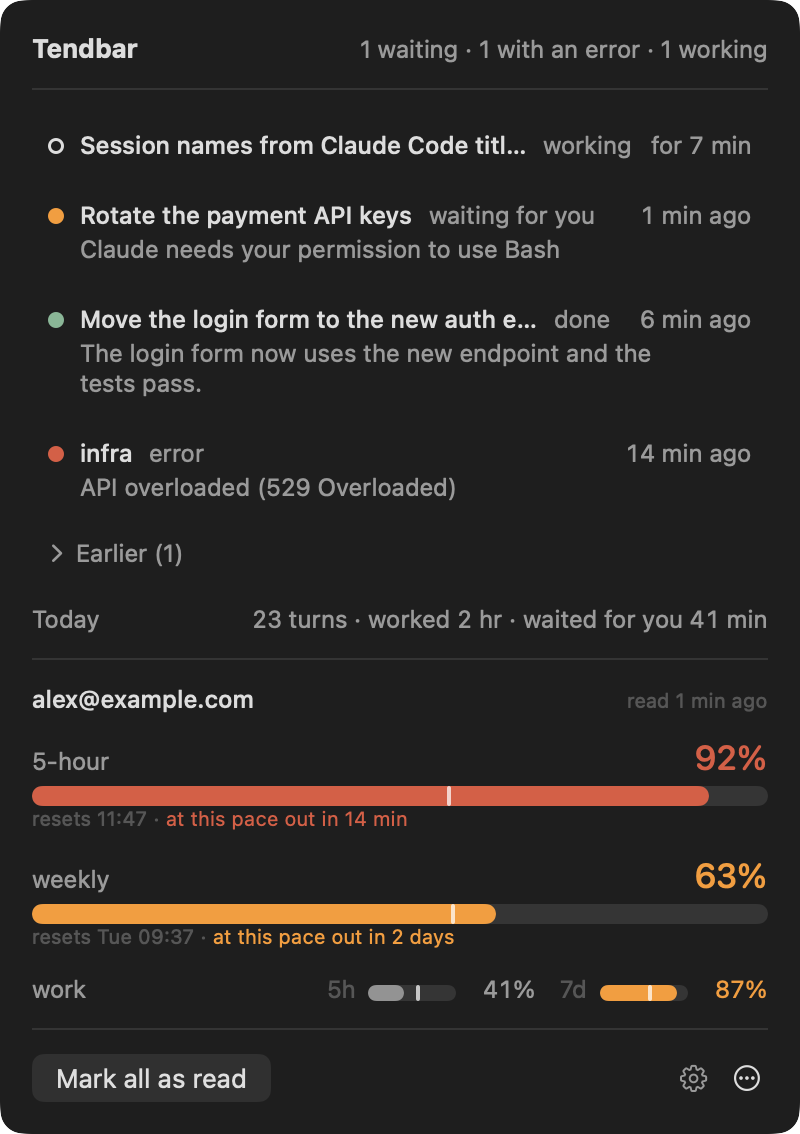
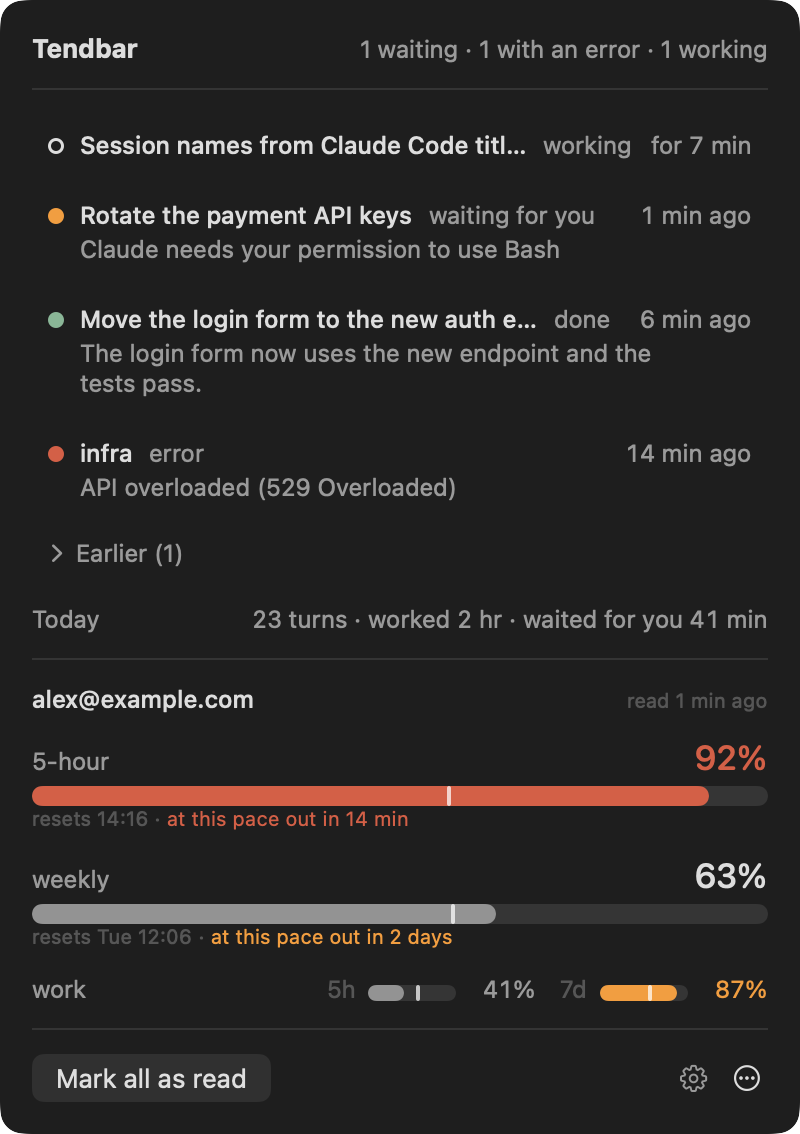
fix: limit bars colored by usage only, the run-out forecast warns in its own line
A bar at 35% turned amber because, at the pace of the reading, the limit would run out before it resets. That read
as "a lot used". The bar and the figure now take their color from the share used (grey, amber from 70%, vermilion
from 90%); "at this pace out in …" below the bar stays amber, or vermilion past 90%. README images rendered again.

diff --git a/Tendbar/Presentation/Usage/UsageSection.swift b/Tendbar/Presentation/Usage/UsageSection.swift
@@ -88,7 +88,6 @@ private struct WindowLimit: View {
         let percentage = window?.percentage(at: now) ?? 0
         let pace = window?.evenPace(at: now, length: length)
         let runsOut = window?.runsOut(readAt: readAt, now: now, length: length)
-        let tone = window.map { limitTone($0, readAt: readAt, now: now, length: length) } ?? 0
         VStack(alignment: .leading, spacing: 4) {
             HStack(alignment: .firstTextBaseline) {
                 Text(title).foregroundStyle(.secondary)
@@ -96,9 +95,10 @@ private struct WindowLimit: View {
                 Text(window == nil ? "–" : "\(Int(percentage.rounded()))%")
                     .font(.system(size: 17, weight: .medium, design: .rounded))
                     .monospacedDigit()
-                    .foregroundStyle(tone >= 70 ? limitColor(tone) : .primary)
+                    .foregroundStyle(percentage >= 70 ? limitColor(percentage) : .primary)
             }
-            LimitBar(percentage: percentage, pace: pace, tone: tone)
+            // The bar and the figure show what is used; a run-out forecast warns only in the line below.
+            LimitBar(percentage: percentage, pace: pace)
                 .accessibilityLabel(title)
                 .accessibilityValue("\(Int(percentage.rounded()))%")
             if let window {
@@ -108,7 +108,7 @@ private struct WindowLimit: View {
                     if let runsOut {
                         Text(" · ").foregroundStyle(.tertiary)
                         Text("at this pace out in \(Elapsed.until(runsOut, now: now))")
-                            .foregroundStyle(limitColor(tone))
+                            .foregroundStyle(limitColor(max(percentage, 70)))
                     }
                 }
                 .font(.caption)
@@ -148,14 +148,13 @@ struct CompactLimits: View {
 
     private func gauge(_ title: String, _ window: LimitWindow?, length: TimeInterval, now: Date) -> some View {
         let percentage = window?.percentage(at: now) ?? 0
-        let tone = window.map { limitTone($0, readAt: account.updatedAt, now: now, length: length) } ?? 0
         return HStack(spacing: 6) {
             Text(title).foregroundStyle(.tertiary).fixedSize()
-            LimitBar(percentage: percentage, height: 4, pace: window?.evenPace(at: now, length: length), tone: tone)
+            LimitBar(percentage: percentage, height: 4, pace: window?.evenPace(at: now, length: length))
                 .frame(width: barWidth)
             Text(window == nil ? "–" : "\(Int(percentage.rounded()))%")
                 .monospacedDigit()
-                .foregroundStyle(tone >= 70 ? limitColor(tone) : .secondary)
+                .foregroundStyle(percentage >= 70 ? limitColor(percentage) : .secondary)
                 .frame(width: 34, alignment: .trailing)
         }
     }

diff --git a/Tendbar/Presentation/Shared/Display.swift b/Tendbar/Presentation/Shared/Display.swift
@@ -145,13 +145,6 @@ enum LimitWindowName {
     }
 }
 
-/// The percentage to color a window by: its own share, or at least the warning level when, at the pace of the last
-/// reading, it runs out before it resets.
-func limitTone(_ window: LimitWindow, readAt: Date, now: Date, length: TimeInterval) -> Double {
-    let percentage = window.percentage(at: now)
-    return window.runsOut(readAt: readAt, now: now, length: length) == nil ? percentage : max(percentage, 70)
-}
-
 func limitColor(_ percentage: Double) -> Color {
     switch percentage {
     case ..<70: .primary.opacity(0.55)
@@ -166,15 +159,13 @@ struct LimitBar: View {
     let percentage: Double
     var height: CGFloat = 6
     var pace: Double?
-    /// The percentage whose color the bar takes, when it should warn earlier than its own share would.
-    var tone: Double?
 
     var body: some View {
         GeometryReader { proxy in
             ZStack(alignment: .leading) {
                 Capsule().fill(Color.primary.opacity(0.12))
                 Capsule()
-                    .fill(limitColor(tone ?? percentage))
+                    .fill(limitColor(percentage))
                     .frame(width: proxy.size.width * min(max(percentage, 0), 100) / 100)
                 if let pace {
                     RoundedRectangle(cornerRadius: 1)
